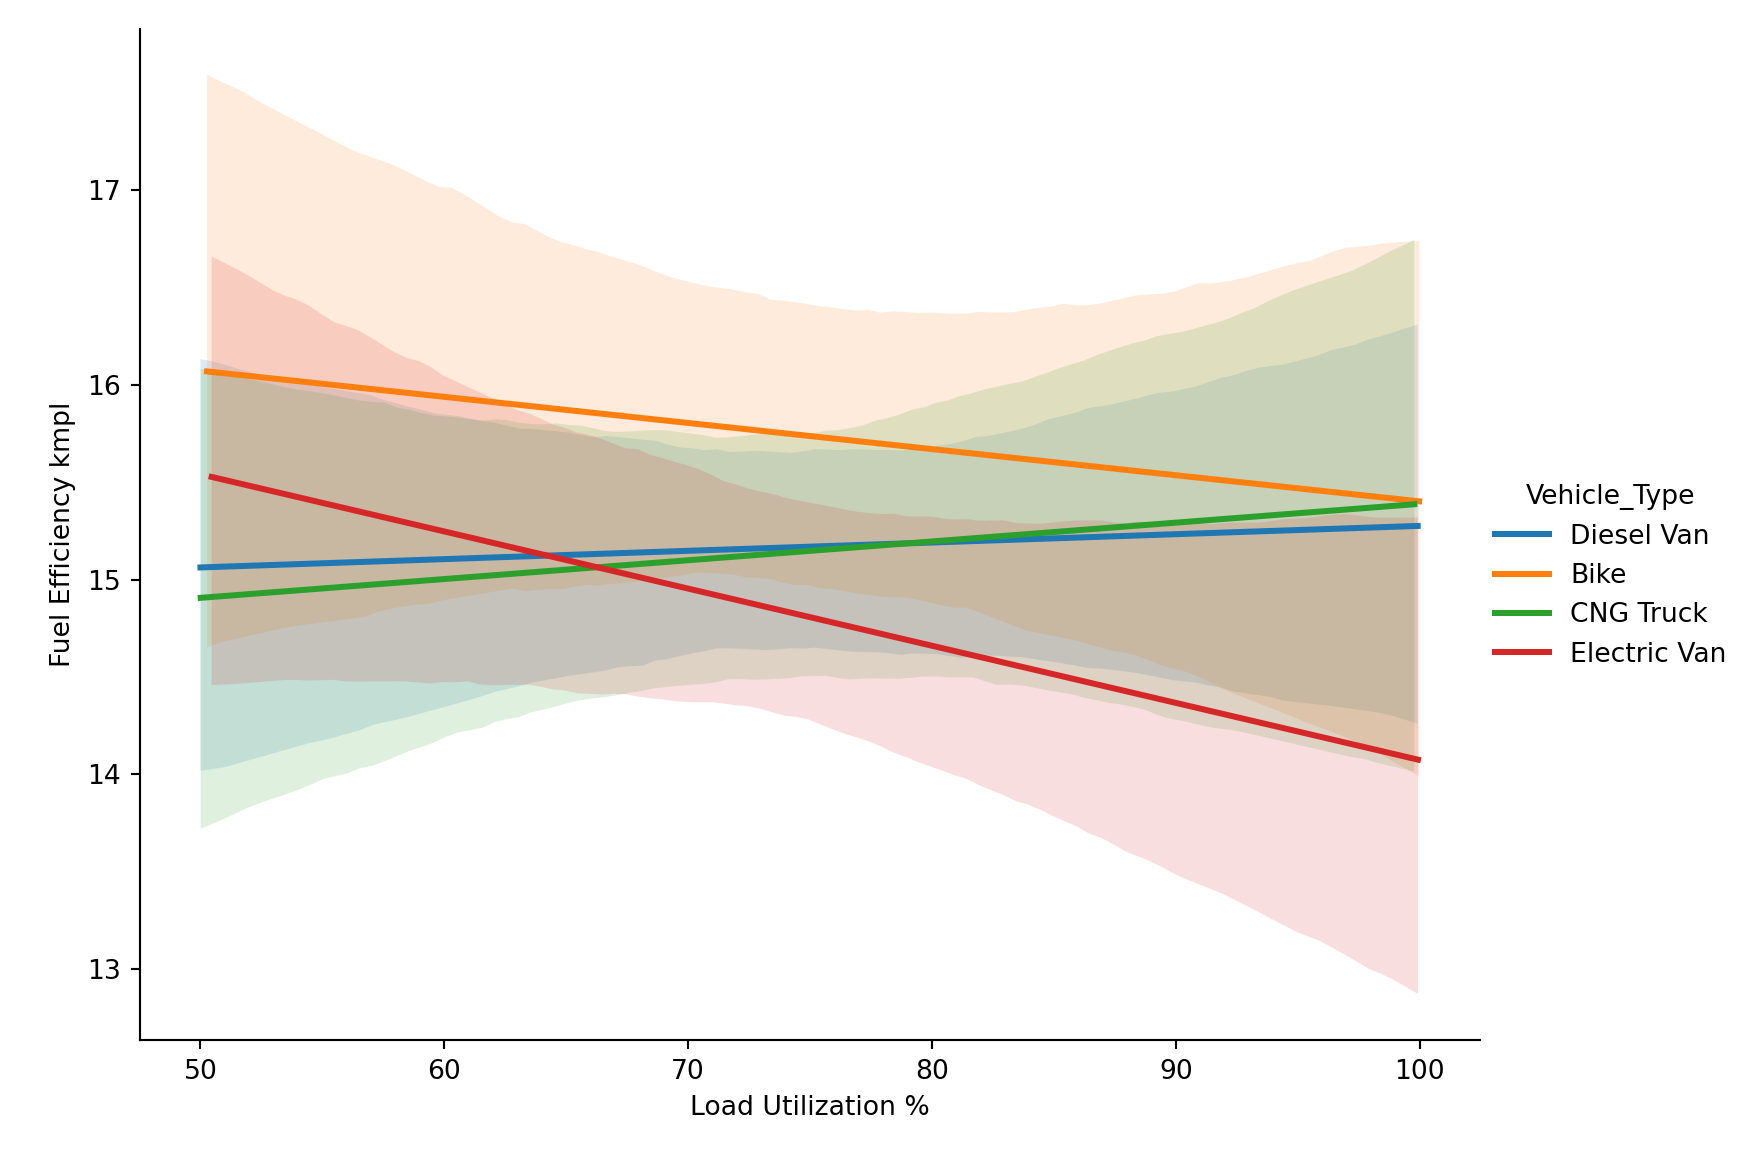
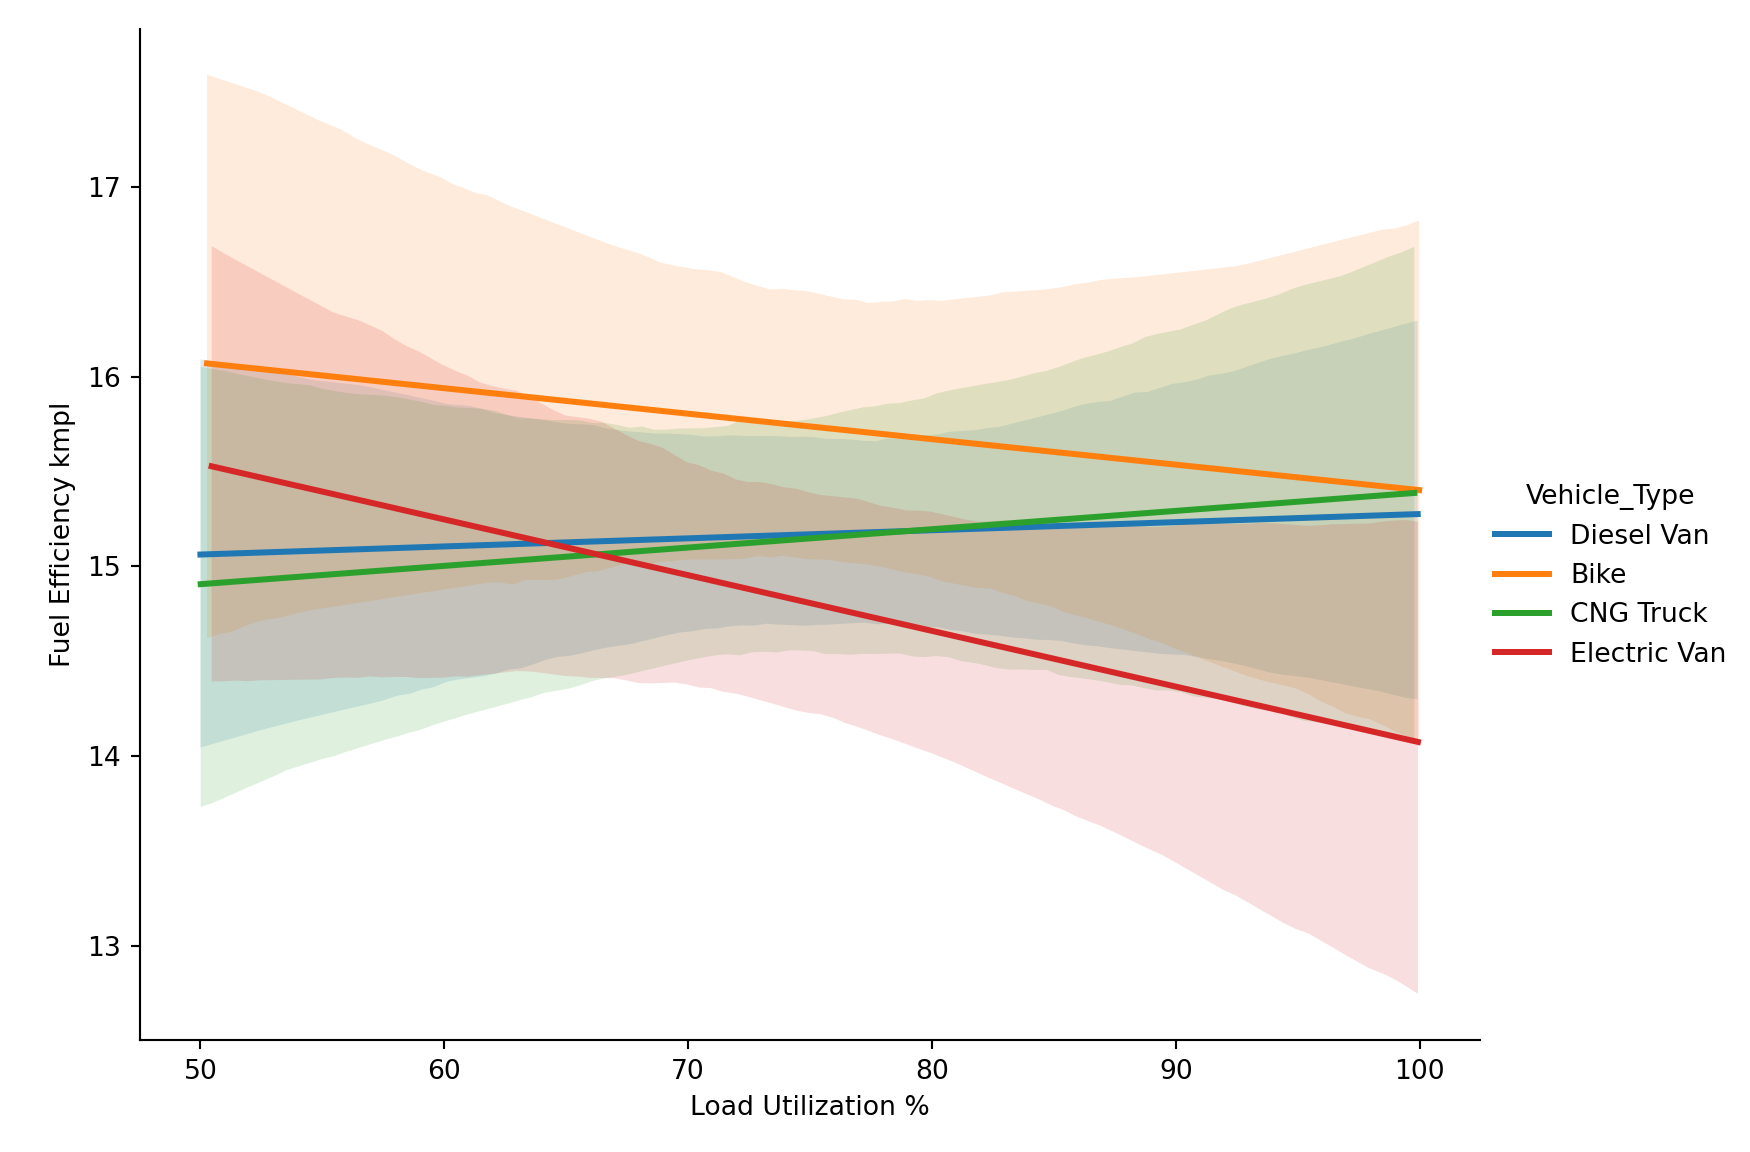
new project 1 tables with percents

diff --git a/docs/project_1.html b/docs/project_1.html
@@ -305,48 +305,49 @@ p1_data_import = pd.read_excel(r&quot;C:\Users\Matthew.Webb12\Desktop\GitHub Rep
 
 print(p1_data_import.columns)</code></pre>
 <pre class="python"><code>
-# Exploring the data for completeness
-columns_to_check = [&quot;Vehicle_Type&quot;, &quot;Route_Type&quot;, &quot;Delivery_Type&quot;]
+######NEW METHOD
+def variable_counts(column):
+  counts = p1_data_import[column].value_counts()
+  formatted_counts = counts.apply(lambda x: f&quot;{x:,}&quot;)
+  percentages = p1_data_import[column].value_counts(normalize=True).mul(100).round(1)
+  result = pd.concat([formatted_counts, percentages], axis=1, keys=[&#39;count&#39;, &#39;percentage&#39;])
+  return result
 
-# Create empty dictionary for the tables to be stored in
-count_tables = {} 
-
-# Pulling the counts for the values in the variables
-for col in columns_to_check:
-  count_tables[col] = p1_data_import[col].value_counts().to_frame(name=&quot;Count&quot;)
-
-# I also want to check the count of delivery types for each vehicle type, and the average distance for each delivery type
-count_delivery_type = p1_data_import.groupby(&quot;Vehicle_Type&quot;)[&quot;Delivery_Type&quot;].value_counts()
-mean_distance = p1_data_import.groupby(&quot;Delivery_Type&quot;)[&quot;Distance_km&quot;].mean()</code></pre>
+vehicle_type_table = variable_counts(&quot;Vehicle_Type&quot;)
+route_type_table = variable_counts(&quot;Route_Type&quot;)
+delivery_type_table = variable_counts(&quot;Delivery_Type&quot;)</code></pre>
 <p>Here we have the counts of the variables which has highlighted an
-anomalous row we will remove in the vehicle type column</p>
+anomalous row we will remove in the vehicle type column, aside from that
+we can see these key columns don’t contain any na incidents</p>
 <div style="display:flex; gap:20px;">
 <div style="flex:1;">
-<pre><code>              Count
-Vehicle_Type       
-Diesel Van      525
-Electric Van    403
-CNG Truck       310
-Bike            261
-S                 1</code></pre>
+<pre><code>             count  percentage
+Vehicle_Type                  
+Diesel Van     525        35.0
+Electric Van   403        26.9
+CNG Truck      310        20.7
+Bike           261        17.4
+S                1         0.1</code></pre>
 </div>
 <div style="flex:1;">
-<pre><code>            Count
-Route_Type       
-Urban         592
-Suburban      463
-Rural         305
-Highway       140</code></pre>
+<pre><code>           count  percentage
+Route_Type                  
+Urban        592        39.5
+Suburban     463        30.9
+Rural        305        20.3
+Highway      140         9.3</code></pre>
 </div>
 <div style="flex:1;">
-<pre><code>               Count
-Delivery_Type       
-Standard         749
-Express          459
-Same-day         292</code></pre>
+<pre><code>              count  percentage
+Delivery_Type                  
+Standard        749        49.9
+Express         459        30.6
+Same-day        292        19.5</code></pre>
 </div>
 </div>
 <p><br></p>
+<p>I also want to check the count of delivery types for each vehicle
+type, and the average distance for each delivery type</p>
 <div style="display:flex; gap:20px;">
 <div style="flex:1;">
 <pre><code>Delivery_Type
@@ -371,6 +372,10 @@ Electric Van  Standard         201
               Same-day          70
 S             Same-day           1
 Name: count, dtype: int64</code></pre>
+</div>
+</div>
+<p><br></p>
+</div>
 <div id="data-handling-descriptive-analysis" class="section level2">
 <h2>Data Handling &amp; Descriptive Analysis</h2>
 <p>Here I can see the break down of the key columns I will be using for
@@ -422,7 +427,6 @@ achieve here. We can see that for Electric vehicles and Bikes the fuel
 efficiency decreases steadily as the load utilization increases, whereas
 for CNG Trucks and Diesel Vans it increases. This is key information
 that will factor into my conclusion.</p>
-</div>
 </div>
 </div>
 <pre class="python"><code># This plot is 

diff --git a/docs/index.html b/docs/index.html
@@ -302,24 +302,6 @@ analysing the largest repository of patient safety incidents in the
 country with over 200,000 incidents reported every month.</p>
 <div id="skills" class="section level2">
 <h2>Skills</h2>
-<div style="display:flex; gap:30px; font-size:40px;">
-<div style="text-align:center;">
-<pre><code>&lt;i class=&quot;fa-brands fa-r-project&quot;&gt;&lt;/i&gt;
-&lt;div style=&quot;font-size:14px;&quot;&gt;R&lt;/div&gt;</code></pre>
-</div>
-<div style="text-align:center;">
-<pre><code>&lt;i class=&quot;fa-brands fa-python&quot;&gt;&lt;/i&gt;
-&lt;div style=&quot;font-size:14px;&quot;&gt;Python&lt;/div&gt;</code></pre>
-</div>
-<div style="text-align:center;">
-<pre><code>&lt;i class=&quot;fa-solid fa-database&quot;&gt;&lt;/i&gt;
-&lt;div style=&quot;font-size:14px;&quot;&gt;SQL&lt;/div&gt;</code></pre>
-</div>
-<div style="text-align:center;">
-<pre><code>&lt;i class=&quot;fa-solid fa-chart-line&quot;&gt;&lt;/i&gt;
-&lt;div style=&quot;font-size:14px;&quot;&gt;SAS&lt;/div&gt;</code></pre>
-</div>
-</div>
 <p>I’m looking for a role that allows me to continue my data analysis
 career and this portfolio showcases my skills.</p>
 </div>
